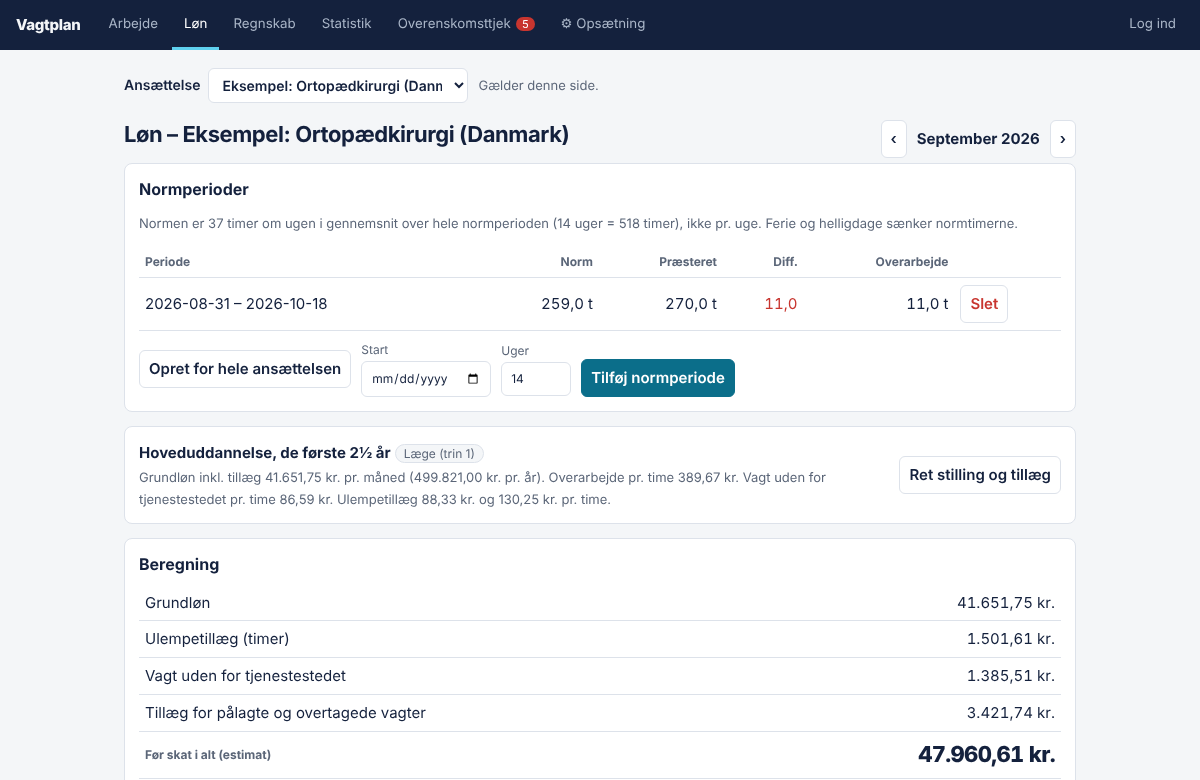
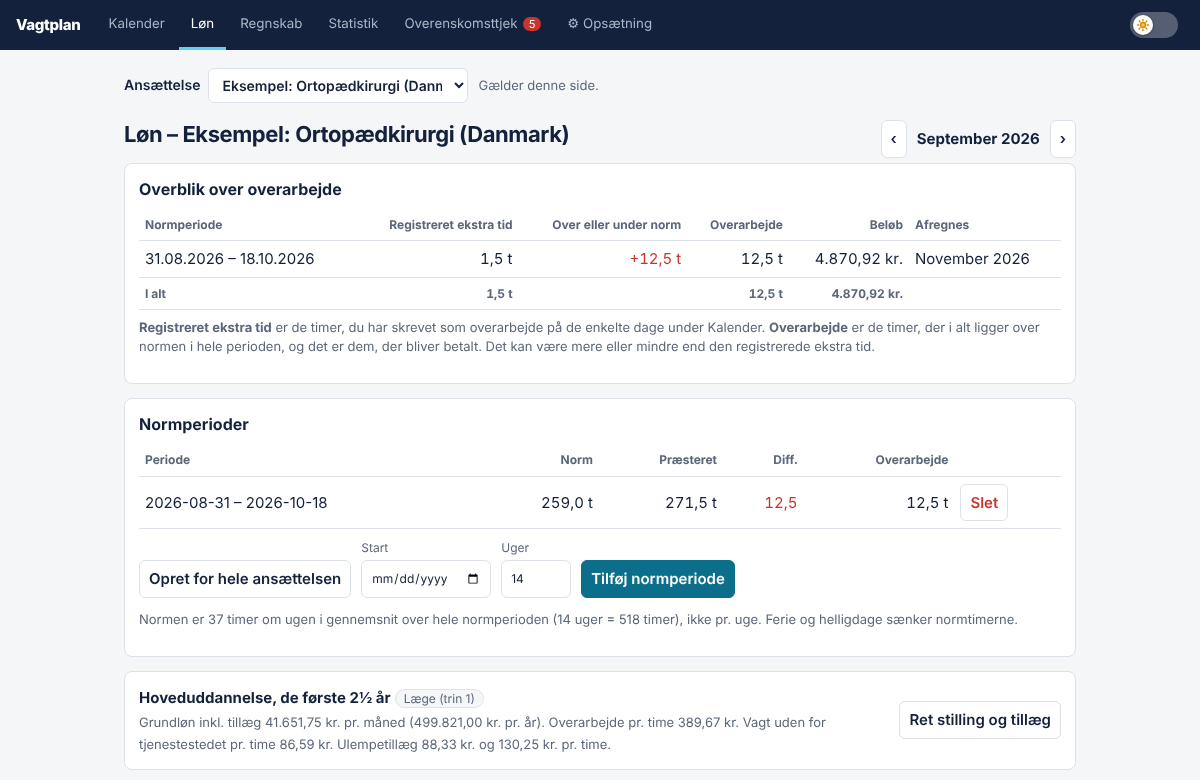
Ret skærmbilleder på forsiden
Claude-Session: https://claude.ai/code/session_01ApPBnfqP4kV8CtWLgf4i76

diff --git a/index.html b/index.html
@@ -21,7 +21,7 @@ header{display:flex;align-items:center;gap:16px;padding:16px 0}header b{font-siz
 .hero{display:grid;grid-template-columns:1.05fr 1fr;gap:36px;align-items:center;padding:36px 0 56px}
 h1{font-size:clamp(32px,5vw,50px);line-height:1.08;letter-spacing:-.035em;margin:0 0 16px}h2{font-size:30px;letter-spacing:-.02em;margin:0 0 8px}h3{margin:0 0 6px;font-size:18px}
 .lead{font-size:19px;color:var(--mut);margin:0 0 24px}.cta{display:flex;gap:12px;flex-wrap:wrap}
-.shot{border:1px solid var(--line);border-radius:14px;box-shadow:0 18px 50px rgba(20,33,61,.18);width:100%;display:block;background:var(--card)}
+.shot{border:1px solid var(--line);border-radius:14px;box-shadow:0 18px 50px rgba(20,33,61,.18);width:100%;height:auto;display:block;background:var(--card)}
 section{padding:46px 0;border-top:1px solid var(--line)}.sub{color:var(--mut);margin:0 0 26px;max-width:640px}
 .g{display:grid;grid-template-columns:repeat(auto-fit,minmax(250px,1fr));gap:16px}.c{background:var(--card);border:1px solid var(--line);border-radius:12px;padding:18px}.c p{margin:0;color:var(--mut);font-size:15px}
 .n{display:inline-flex;width:30px;height:30px;border-radius:50%;background:var(--ink);color:var(--bg);align-items:center;justify-content:center;font-weight:800;margin-bottom:8px}
